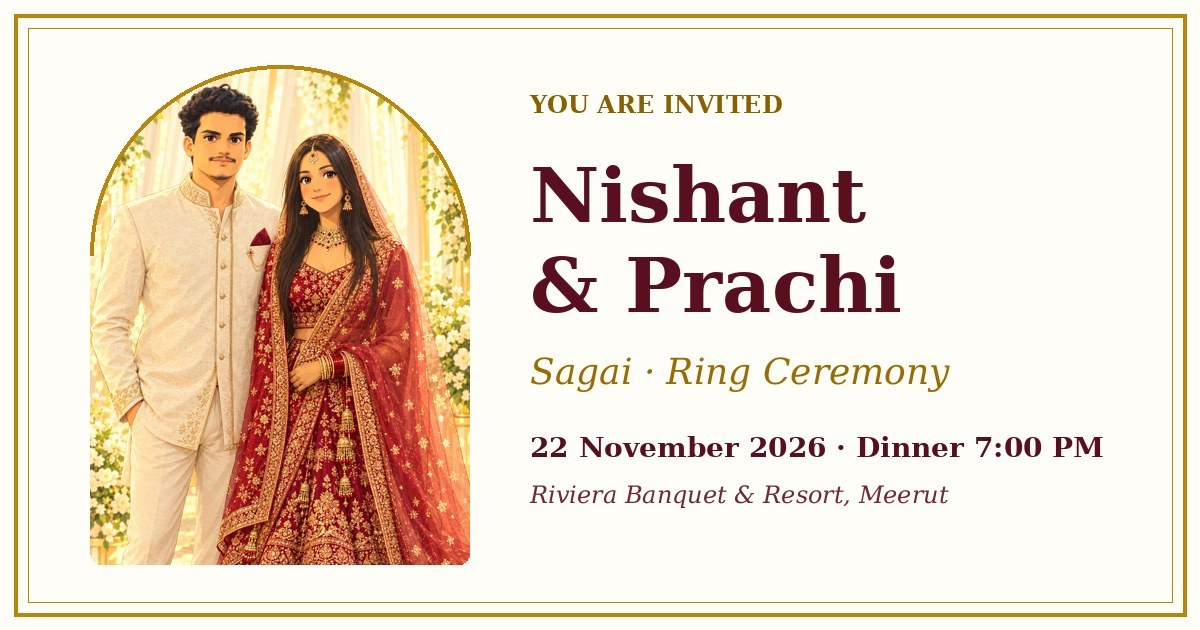
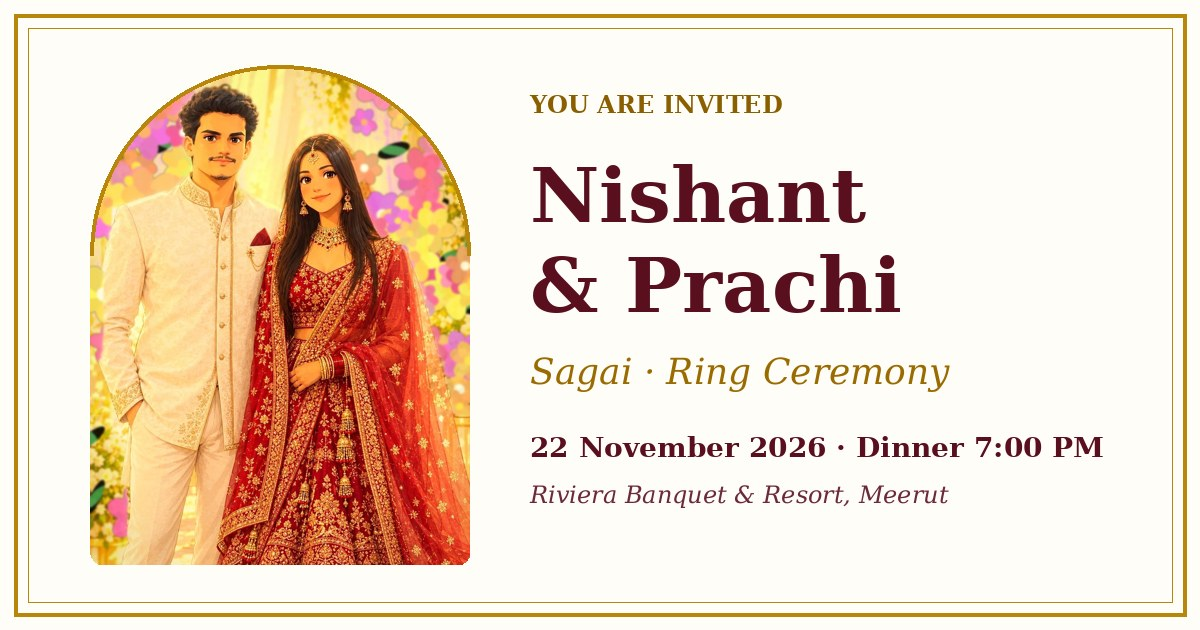
Add files via upload

Changed region(s): [[0.0617, 0.0905, 0.4008, 0.9048], [0.2775, 0.8444, 0.3083, 0.8746]]

diff --git a/index.html b/index.html
@@ -47,7 +47,7 @@ button{font-family:'Jost',sans-serif;cursor:pointer}
 <!-- START -->
 <div id="s-start" class="ab col" style="gap:22px;padding:0 40px">
   <div style="font-size:13px;letter-spacing:6px;text-transform:uppercase;color:#8A5F00">You are invited</div>
-  <div style="width:250px;height:334px;box-sizing:border-box;border:3px solid #B8860B;border-radius:125px 125px 14px 14px;overflow:hidden;box-shadow:0 10px 34px rgba(184,134,11,.35);animation:coZoom 1s both"><img src="ghibli.jpg" alt="Nishant and Prachi" style="width:100%;height:100%;object-fit:cover;object-position:top;display:block"></div>
+  <div style="width:250px;height:334px;box-sizing:border-box;border:3px solid #B8860B;border-radius:125px 125px 14px 14px;overflow:hidden;box-shadow:0 10px 34px rgba(184,134,11,.35);animation:coZoom 1s both"><img src="start.jpg" alt="Nishant and Prachi" style="width:100%;height:100%;object-fit:cover;object-position:top;display:block"></div>
   <div class="cg" style="font-size:46px;font-weight:600;line-height:1.05">Nishant &amp; Prachi</div>
   <div class="cg" style="font-style:italic;font-size:26px;color:#9A6B00">Sagai · Ring Ceremony</div>
   <button id="playBtn" aria-label="Play the invitation film" style="min-height:54px;padding:0 44px;border-radius:27px;border:none;background:#5A0F1F;color:#fff;font-size:15px;letter-spacing:3px;text-transform:uppercase;animation:coShine 2s infinite">Play invitation</button>
@@ -69,7 +69,7 @@ button{font-family:'Jost',sans-serif;cursor:pointer}
     <div style="width:100%;height:100%;box-sizing:border-box;border:2px solid #B8860B;padding:8px;background:#fff">
       <div class="col" style="width:100%;height:100%;border:1px solid #B8860B;padding:24px 22px;gap:14px">
         <div style="font-size:11px;letter-spacing:4px;text-transform:uppercase;color:#8A5F00">With the blessings of our families</div>
-        <div style="width:250px;height:334px;box-sizing:border-box;border:3px solid #B8860B;border-radius:125px 125px 12px 12px;overflow:hidden;box-shadow:0 8px 24px rgba(184,134,11,.35)"><img src="ghibli.jpg" alt="Nishant and Prachi" style="width:100%;height:100%;object-fit:cover;object-position:top;display:block"></div>
+        <div style="width:250px;height:334px;box-sizing:border-box;border:3px solid #B8860B;border-radius:125px 125px 12px 12px;overflow:hidden;box-shadow:0 8px 24px rgba(184,134,11,.35)"><img src="start.jpg" alt="Nishant and Prachi" style="width:100%;height:100%;object-fit:cover;object-position:top;display:block"></div>
         <div class="cg" style="font-size:34px;letter-spacing:8px;text-transform:uppercase;color:#9A6B00;font-weight:600">Sagai</div>
         <div class="cg" style="font-size:40px;font-weight:600;line-height:1.05">Nishant &amp; Prachi</div>
         <div class="cg" style="font-size:22px;font-weight:600;line-height:1.3">22 Nov 2026 · Dinner 7:00 PM</div>
